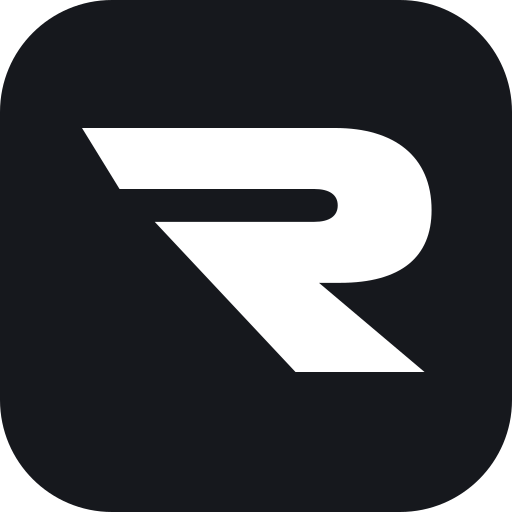
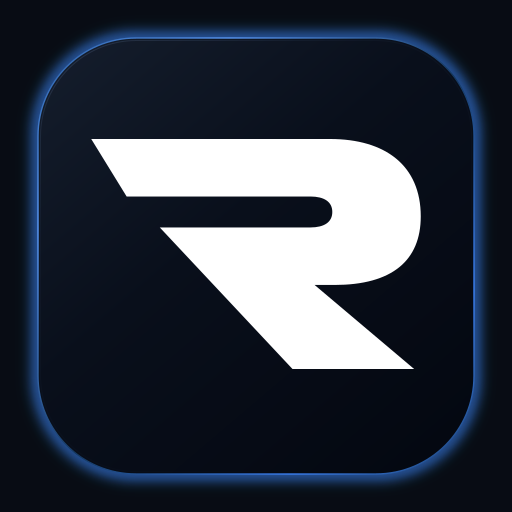
Синяя подсветка и аккуратный объём основных иконок ROSEEN (#34)

diff --git a/docs/ROSEEN-MASTER-PROMPT.md b/docs/ROSEEN-MASTER-PROMPT.md
@@ -26,7 +26,7 @@
 На всех публичных страницах, включая магазин, корзину, оформление заказа и кабинет:
 - В HEADER — утверждённый русский графический логотип **РОСИН**.
 - В FOOTER — утверждённый английский графический логотип **ROSEEN**.
-- Favicon — утверждённая монограмма **R**. По решению владельца от 04.10.2026 R и EE — основные иконки; редакция 4.4 убирает синюю подсветку границ. Однотонный Graphite #16181D, белая R и синий знак EE; без обводок, теней, свечения и градиентов. R укрупняется равномерным масштабированием для малого favicon. Ярлык iPhone имеет непрозрачный квадратный фон для системной маски. Контуры обоих знаков сохраняются; полные логотипы в header/footer сохраняют свои роли.
+- Favicon — утверждённая монограмма **R**. По уточнению владельца от 04.10.2026 R и EE — основные иконки; редакция 4.5 сохраняет синюю подсветку границ, которая придаёт объём. Белая R и синий EE располагаются на тёмной поверхности с мягким светом Corporate Blue, тонким чётким краем и сдержанным светотеневым переходом. Подсветка относится только к этим иконкам, а не ко всему интерфейсу. R укрупняется равномерным масштабированием для малого favicon. Ярлык iPhone имеет непрозрачный квадратный фон для системной маски. Контуры обоих знаков сохраняются; полные логотипы в header/footer сохраняют свои роли.
 - Используй светлый мастер на тёмном фоне, положительный — на светлом. Не перекрашивай SVG фильтрами и не добавляй белую плашку вместо подходящей версии.
 
 Запрещён показанный владельцем вариант: простая надпись ROSEEN обычным шрифтом вместо графического логотипа. Он не может оставаться в шапке, подвале, мобильном меню, SVG с `<text>`, CSS-псевдоэлементе, загрузочной заглушке или fallback.

diff --git a/docs/EXECUTION-STATUS.md b/docs/EXECUTION-STATUS.md
@@ -1,6 +1,12 @@
-# Clean primary icons - 4 October 2026
+# Refined blue edge light - 4 October 2026
 
-Baseline: `31ccb2b677881aacb7506870acee2eb1b12fa9e2`. The owner rejected the blue illuminated edges. Primary R and EE badges now use one solid Graphite #16181D rounded surface, with no outline, glow, shadow or gradient. The original glyph paths are unchanged; the white R remains legible at small favicon sizes. The iOS 180px export is opaque for the system's home-screen mask. Browser asset fingerprints refresh automatically from the changed SVG/PNG bytes. Brandbook 4.4 and its downloadable icon set use the same clean artwork, with native vector icons and text in the print PDF. Release evidence is recorded in the PR.
+Baseline: `1f124c406fa105805615cf1df0a1909294fd7b1a`. The owner clarified that blue edge light should remain because it adds depth; the previous removal was an interpretation error. Primary R and EE now have restrained blue light, a precise rim and subtle dark face shading. The approved glyph paths remain exact; uniform sizing improves prominence while preserving padding. Layered native vector strokes represent the soft light, preserving print quality without rasterising the icon page. Web exports and brandbook 4.5 share the same artwork. Release evidence is recorded in the PR after checks and publication.
+
+---
+
+# Clean primary icons - 4 October 2026 (superseded interpretation)
+
+Baseline: `31ccb2b677881aacb7506870acee2eb1b12fa9e2`. The assistant interpreted a comment about the blue illuminated edges as a request to remove them; the owner subsequently clarified the opposite. This superseded 4.4 revision used one solid Graphite #16181D rounded surface without glow. The original glyph paths were unchanged and browser asset fingerprints refreshed from SVG/PNG bytes. Revision 4.5 restores and refines the light according to the owner's explicit correction.
 
 ---
 
